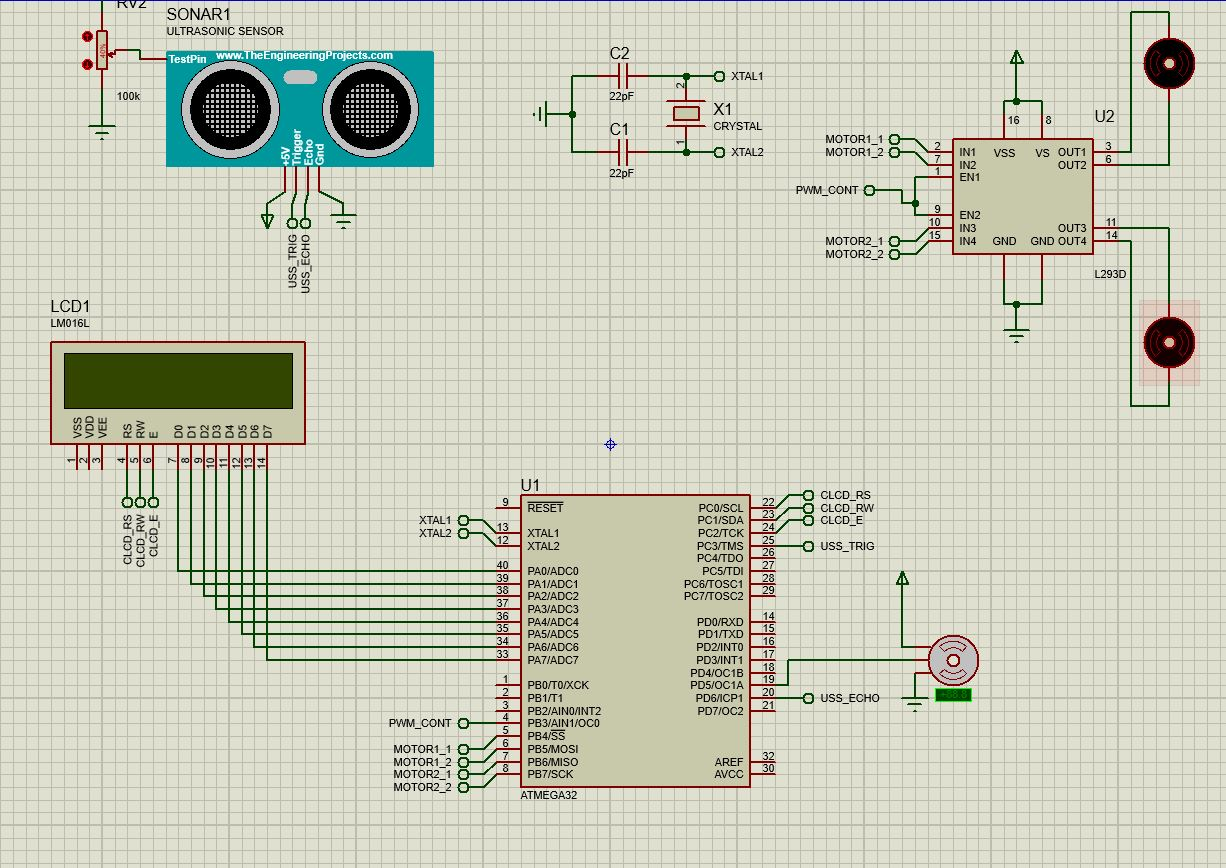
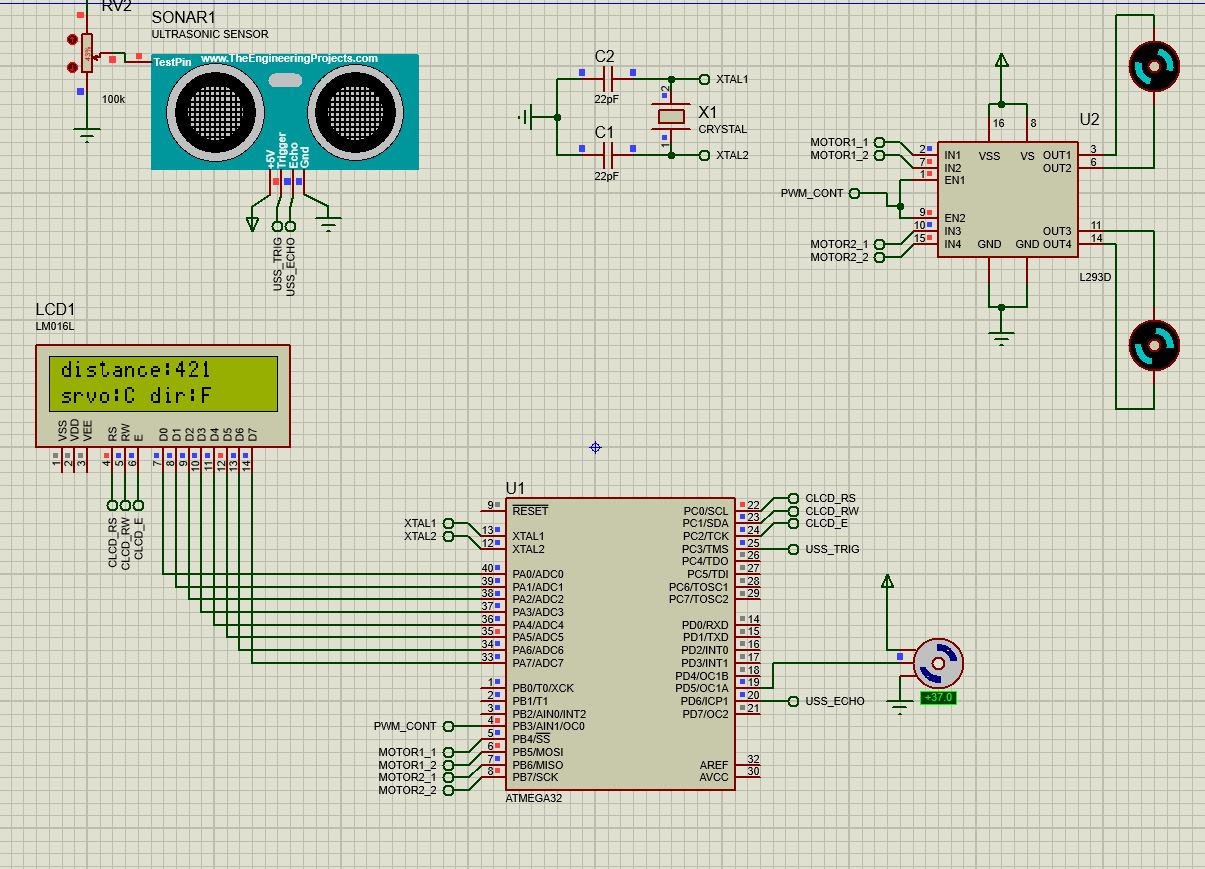
Whole program is finished

diff --git a/main.c b/main.c
@@ -13,8 +13,17 @@
 #include "HAL/MOTOR/MOTOR_interface.h"
 
 
+#define CRITICAL_u8_DISTANCE 90
+#define CAR_u16_OBSTCALE_SKIP_TIME 1000
 
-uint8 u8MoveServo180Degrees(){
+struct Motor MOTOR1, MOTOR2;
+
+uint8 MoveServo180Degrees();
+void voidInitMotors();
+void voidCheckObstacle_MoveAccordingly(uint32 Copy_32USSDistance, uint8 Copy_u8Dirction);
+
+
+uint8 MoveServo180Degrees(){
 	static uint8 Local_u8CurrentAngle = 0;
 	static uint8 Local_u8IncFlag = 1;
 	uint8 Local_u8Direction = ' ';
@@ -48,20 +57,90 @@ uint8 u8MoveServo180Degrees(){
 }
 
 
-//uint8 u8CheckObstacle_MoveAccordingly(uint8 Copy_USSDistance){
-//
-//}
+void voidInitMotors(){
+	MOTOR1.motor_u8_port = DIO_u8_PORTB;
+	MOTOR1.motor_u8_pin1 = DIO_u8_PIN4;
+	MOTOR1.motor_u8_pin2 = DIO_u8_PIN5;
 
+	MOTOR2.motor_u8_port = DIO_u8_PORTB;
+	MOTOR2.motor_u8_pin1 = DIO_u8_PIN6;
+	MOTOR2.motor_u8_pin2 = DIO_u8_PIN7;
+}
+
+
+
+void voidCheckObstacle_MoveAccordingly(uint32 Copy_32USSDistance, uint8 Copy_u8Dirction){
+	if(Copy_32USSDistance <= CRITICAL_u8_DISTANCE){
+		MOTOR_voidSetMotorsPWMDutyCycle(100);
+		switch(Copy_u8Dirction){
+		case 'L':
+			MOTOR_u8MoveMotor(MOTOR1, MOTOR_u8_ANTICLOCKWISE);
+			MOTOR_voidStopMotor(MOTOR2);
+			_delay_ms(CAR_u16_OBSTCALE_SKIP_TIME);
+			break;
+		case 'R':
+			MOTOR_u8MoveMotor(MOTOR2, MOTOR_u8_ANTICLOCKWISE);
+			MOTOR_voidStopMotor(MOTOR1);
+			_delay_ms(CAR_u16_OBSTCALE_SKIP_TIME);
+			break;
+		case 'C':
+			MOTOR_u8MoveMotor(MOTOR1, MOTOR_u8_ANTICLOCKWISE);
+			MOTOR_u8MoveMotor(MOTOR2, MOTOR_u8_CLOCKWISE);
+			_delay_ms(CAR_u16_OBSTCALE_SKIP_TIME);
+		}
+	}
+	else{
+		MOTOR_voidSetMotorsPWMDutyCycle(100);
+		MOTOR_u8MoveMotor(MOTOR1, MOTOR_u8_CLOCKWISE);
+		MOTOR_u8MoveMotor(MOTOR2, MOTOR_u8_CLOCKWISE);
+	}
+
+}
+
+char* charptrCarDirection(uint32 Copy_32USSDistance, uint8 Copy_u8Dirction){
+	static char Local_carDir[3] = "F \0";
+	Local_carDir[0] = 'F';
+	Local_carDir[1] = ' ';
+	if(Copy_32USSDistance <= CRITICAL_u8_DISTANCE){
+		switch(Copy_u8Dirction){
+		case 'L':
+			Local_carDir[0] = 'B';
+			Local_carDir[1] = 'R';
+			break;
+		case 'R':
+			Local_carDir[0] = 'B';
+			Local_carDir[1] = 'L';
+			break;
+		case 'C':
+			Local_carDir[0] = 'R';
+			Local_carDir[1] = 'R';
+			break;
+		}
+	}
+	Local_carDir[2] = '\0';
+	return Local_carDir;
+}
 
 int main(){
 	PORT_voidInit();
 	CLCD_voidInit();
 	USS_voidInit();
+	PWM0_VoidInit();
+	voidInitMotors();
 	while(1){
-		uint8 Local_u8Direction = MoveServo180Degrees();
+		uint8 Local_u8ServoDirection = MoveServo180Degrees();
 		uint32 Local_u32distance = USS_u32GetDistance();
-		CLCD_sendString("distance: ");
+		CLCD_sendString("distance:");
 		CLCD_sendNumebr((uint32)Local_u32distance);
+		CLCD_voidGoToXY(0, 1);
+		CLCD_sendString("srvo:");
+		CLCD_voidSendData(Local_u8ServoDirection);
+		CLCD_sendString(" dir:");
+		char* Local_charptrCarDir = charptrCarDirection
+				(Local_u32distance, Local_u8ServoDirection);
+
+		CLCD_sendString(Local_charptrCarDir);
+		voidCheckObstacle_MoveAccordingly(Local_u32distance, Local_u8ServoDirection);
 		_delay_ms(500);
 		CLCD_voidClearDisplay();
 	}

diff --git a/HAL/MOTOR/MOTOR_program.c b/HAL/MOTOR/MOTOR_program.c
@@ -5,3 +5,36 @@
 #include <util/delay.h>
 #include "../../MCAL/PWM/PWM_interface.h"
 #include "MOTOR_interface.h"
+
+
+
+uint8 MOTOR_u8MoveMotor(struct Motor Copy_Motor , uint8 Copy_u8Dirction){
+	uint8 Local_u8ErrorState = OK;
+	switch(Copy_u8Dirction){
+	case MOTOR_u8_CLOCKWISE:
+		DIO_u8SetPinValue(Copy_Motor.motor_u8_port, Copy_Motor.motor_u8_pin1, DIO_u8_PIN_LOW);
+		DIO_u8SetPinValue(Copy_Motor.motor_u8_port, Copy_Motor.motor_u8_pin2, DIO_u8_PIN_HIGH);
+		break;
+	case MOTOR_u8_ANTICLOCKWISE:
+		DIO_u8SetPinValue(Copy_Motor.motor_u8_port, Copy_Motor.motor_u8_pin2, DIO_u8_PIN_LOW);
+		DIO_u8SetPinValue(Copy_Motor.motor_u8_port, Copy_Motor.motor_u8_pin1, DIO_u8_PIN_HIGH);
+		break;
+	default:
+		Local_u8ErrorState = NOK;
+		break;
+	}
+	return Local_u8ErrorState;
+}
+
+/* this function stops pin1 and pin2 of the motor does not affect PWM*/
+void MOTOR_voidStopMotor(struct Motor Copy_Motor){
+	DIO_u8SetPinValue(Copy_Motor.motor_u8_port, Copy_Motor.motor_u8_pin1, DIO_u8_PIN_LOW);
+	DIO_u8SetPinValue(Copy_Motor.motor_u8_port, Copy_Motor.motor_u8_pin2, DIO_u8_PIN_LOW);
+}
+
+
+/* PWM pin at OC0 (PWM0) */
+void MOTOR_voidSetMotorsPWMDutyCycle(uint8 Copy_u8DutyCycle){
+	PWM0_VoidSetDutyCycle(Copy_u8DutyCycle);
+	return;
+}

diff --git a/HAL/MOTOR/MOTOR_interface.h b/HAL/MOTOR/MOTOR_interface.h
@@ -7,18 +7,17 @@ struct Motor{
 	uint8 motor_u8_port 		: 4;
 	uint8 motor_u8_pin1 		: 4;
 	uint8 motor_u8_pin2 		: 4;
-	uint8 motor_u8_enablePin 	: 4;
 };
 
 
 #define MOTOR_u8_CLOCKWISE			0
 #define MOTOR_u8_ANTICLOCKWISE		1
-
-void MOTOR_voidSetMotorPWMDutyCycle(struct Motor Copy_Motor, uint8 Copy_u8DutyCycle)
-
-void MOTOR_voidMoveMotor(struct Motor Copy_Motor , uint8 Copy_u8Dirction);
-
+/* set motor Dirction CW or ACW*/
+uint8 MOTOR_u8MoveMotor(struct Motor Copy_Motor , uint8 Copy_u8Dirction);
+/* this function stops pin1 and pin2 of the motor does not affect PWM*/
 void MOTOR_voidStopMotor(struct Motor Copy_Motor);
+/* control motor speed from PWM pin at OC0 (PWM0) */
+void MOTOR_voidSetMotorsPWMDutyCycle(uint8 Copy_u8DutyCycle);
 
 
 #endif
